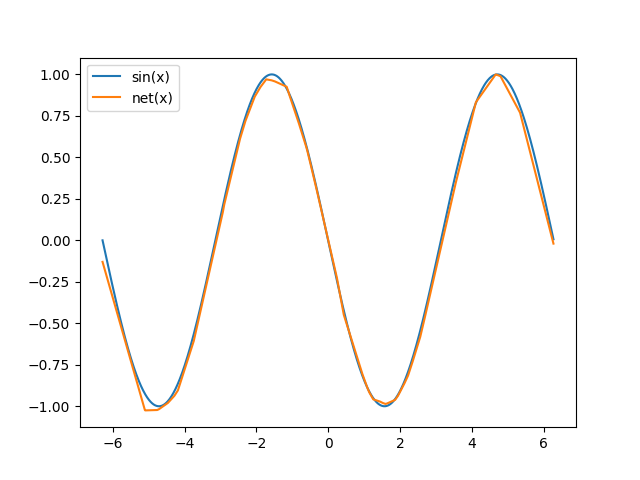
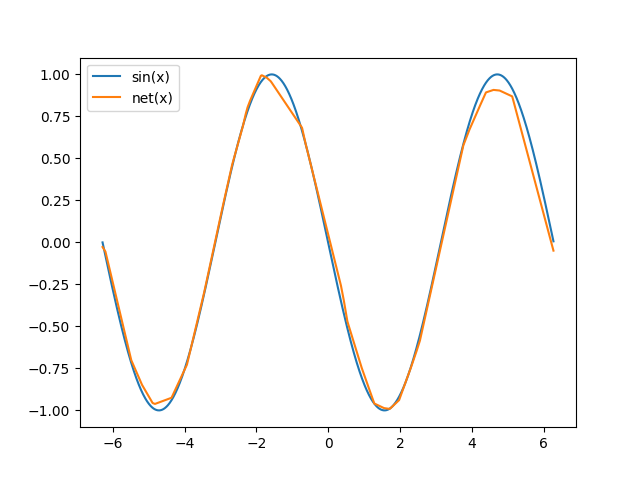
Improved DAML example

diff --git a/blog/meta-learning-in-pytorch/index.html b/blog/meta-learning-in-pytorch/index.html
@@ -227,7 +227,19 @@ proposed by OpenAI that's simpler to implement. Check out their
 <p><a href="https://arxiv.org/abs/1802.01557">DAML</a> uses meta learning to
 tune the parameters of the network to accommodate large domain
 shifts in the input. This method also doesn't need labels in
-the source domain! This is the training loop of DAML:</p>
+the source domain!</p>
+<p>Consider a neural network that takes <code>x</code> as
+input and produces <code>y = net(x)</code>. The source domain is a distribution
+from which the input <code>x</code> maybe drawn from. Likewise, the target
+domain is another distribution of inputs. Domain
+adaptation is what has to be done to get the network to work
+when the distribution of the input is changed from the source
+domain to the target domain. The idea in DAML is to use meta learning
+to tune the weights of the network based on examples in the source
+domain so that the network can do well on examples drawn from the
+target domain. During training, unlabeled examples from the source
+domain and the corresponding examples with labels in the target domain
+are available. This is the training loop of DAML:</p>
 <pre><code>- randomly initialize network weights W and the adaptation
   loss network weights W_adap
 for it in range(num_iterations):
@@ -253,12 +265,18 @@ we must also learn a loss function <code>L_adap</code> parameterized by <code>W_
 </code></pre>
 
 <p>Once again, let's try learning to generate sine waves.
-But this time, the phase of the sine wave desired
-is going to be the input! A large (and contrived) domain shift
-from the usual input of x-coordinate to the network! During test time,
-the desired phase is presented (in place of the x-coordinate) and the
-network paramters must be adjusted so that it can subsequently predict
-a sine wave of that phase.</p>
+In the target domain, the input, <code>x</code>, to the network is drawn from a
+uniform distribution <code>[-2*PI, 2*PI]</code>, and the network has to
+predict <code>y = sin(x)</code> or <code>y = sin(x + PI)</code>. Whether the network must
+predict <code>y = sin(x)</code> or <code>y = sin(x + PI)</code> has to be inferred from a single
+unlabeled input in the source domain. In the source domain, the input, <code>x</code>,
+to the network will be drawn uniformly from <code>[PI/4, PI/2]</code> to specify that
+zero phase is what we want and an input drawn from <code>[-PI/2, -PI/4]</code> shall
+specify that a 180 degree phase is desired. The source domain input is used
+to find gradients of weights with respect to the learnt adaptation loss,
+and a few steps of gradient descent tunes the weights of the network. Once
+we have the tuned weights, they can be used in the target domain to
+predict a sine wave of the desired phase.</p>
 <pre><code>import math
 import random
 import torch # v0.4.1
@@ -328,7 +346,7 @@ for it in range(275000):
 
     new_params = params
     for k in range(n_inner_loop):
-        f, f2, f1 = net(torch.FloatTensor([[1 if b &gt; 0 else -1]]), new_params)
+        f, f2, f1 = net(torch.FloatTensor([[random.uniform(math.pi/4, math.pi/2) if b == 0 else random.uniform(-math.pi/2, -math.pi/4)]]), new_params)
         h = adap_net(f, f2, f1, adap_params)
         adap_loss = F.l1_loss(h, torch.zeros(1, 1))
 
@@ -354,7 +372,7 @@ opt.zero_grad()
 
 t_params = params
 for k in range(n_inner_loop):
-    t_f, t_f2, t_f1 = net(torch.FloatTensor([[1 if t_b &gt; 0 else -1]]), t_params)
+    t_f, t_f2, t_f1 = net(torch.FloatTensor([[random.uniform(math.pi/4, math.pi/2) if b == 0 else random.uniform(-math.pi/2, -math.pi/4)]]), t_params)
     t_h = adap_net(t_f, t_f2, t_f1, adap_params)
     t_adap_loss = F.l1_loss(t_h, torch.zeros(1, 1))
 

diff --git a/blog/meta-learning-in-pytorch/index.md b/blog/meta-learning-in-pytorch/index.md
@@ -172,7 +172,20 @@ proposed by OpenAI that's simpler to implement. Check out their
 [DAML](https://arxiv.org/abs/1802.01557) uses meta learning to
 tune the parameters of the network to accommodate large domain
 shifts in the input. This method also doesn't need labels in
-the source domain! This is the training loop of DAML:
+the source domain!
+
+Consider a neural network that takes `x` as
+input and produces `y = net(x)`. The source domain is a distribution
+from which the input `x` maybe drawn from. Likewise, the target
+domain is another distribution of inputs. Domain
+adaptation is what has to be done to get the network to work
+when the distribution of the input is changed from the source
+domain to the target domain. The idea in DAML is to use meta learning
+to tune the weights of the network based on examples in the source
+domain so that the network can do well on examples drawn from the
+target domain. During training, unlabeled examples from the source
+domain and the corresponding examples with labels in the target domain
+are available. This is the training loop of DAML:
 
 ```
 - randomly initialize network weights W and the adaptation
@@ -203,12 +216,18 @@ At test time:
 ```
 
 Once again, let's try learning to generate sine waves.
-But this time, the phase of the sine wave desired
-is going to be the input! A large (and contrived) domain shift
-from the usual input of x-coordinate to the network! During test time,
-the desired phase is presented (in place of the x-coordinate) and the
-network paramters must be adjusted so that it can subsequently predict
-a sine wave of that phase.
+In the target domain, the input, `x`, to the network is drawn from a
+uniform distribution `[-2*PI, 2*PI]`, and the network has to
+predict `y = sin(x)` or `y = sin(x + PI)`. Whether the network must
+predict `y = sin(x)` or `y = sin(x + PI)` has to be inferred from a single
+unlabeled input in the source domain. In the source domain, the input, `x`,
+to the network will be drawn uniformly from `[PI/4, PI/2]` to specify that
+zero phase is what we want and an input drawn from `[-PI/2, -PI/4]` shall
+specify that a 180 degree phase is desired. The source domain input is used
+to find gradients of weights with respect to the learnt adaptation loss,
+and a few steps of gradient descent tunes the weights of the network. Once
+we have the tuned weights, they can be used in the target domain to
+predict a sine wave of the desired phase.
 
 ```
 import math
@@ -280,7 +299,7 @@ for it in range(275000):
 
     new_params = params
     for k in range(n_inner_loop):
-        f, f2, f1 = net(torch.FloatTensor([[1 if b > 0 else -1]]), new_params)
+        f, f2, f1 = net(torch.FloatTensor([[random.uniform(math.pi/4, math.pi/2) if b == 0 else random.uniform(-math.pi/2, -math.pi/4)]]), new_params)
         h = adap_net(f, f2, f1, adap_params)
         adap_loss = F.l1_loss(h, torch.zeros(1, 1))
 
@@ -306,7 +325,7 @@ opt.zero_grad()
 
 t_params = params
 for k in range(n_inner_loop):
-    t_f, t_f2, t_f1 = net(torch.FloatTensor([[1 if t_b > 0 else -1]]), t_params)
+    t_f, t_f2, t_f1 = net(torch.FloatTensor([[random.uniform(math.pi/4, math.pi/2) if b == 0 else random.uniform(-math.pi/2, -math.pi/4)]]), t_params)
     t_h = adap_net(t_f, t_f2, t_f1, adap_params)
     t_adap_loss = F.l1_loss(t_h, torch.zeros(1, 1))
 
